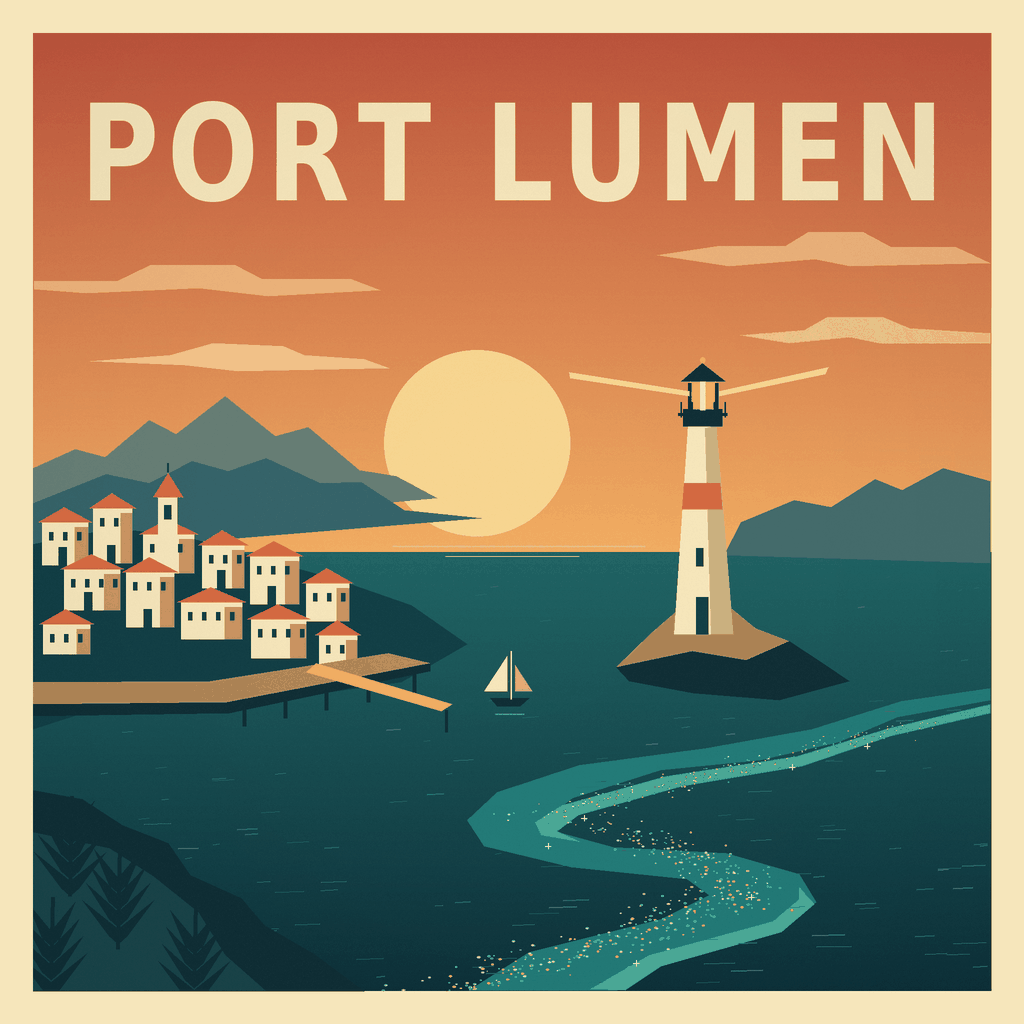
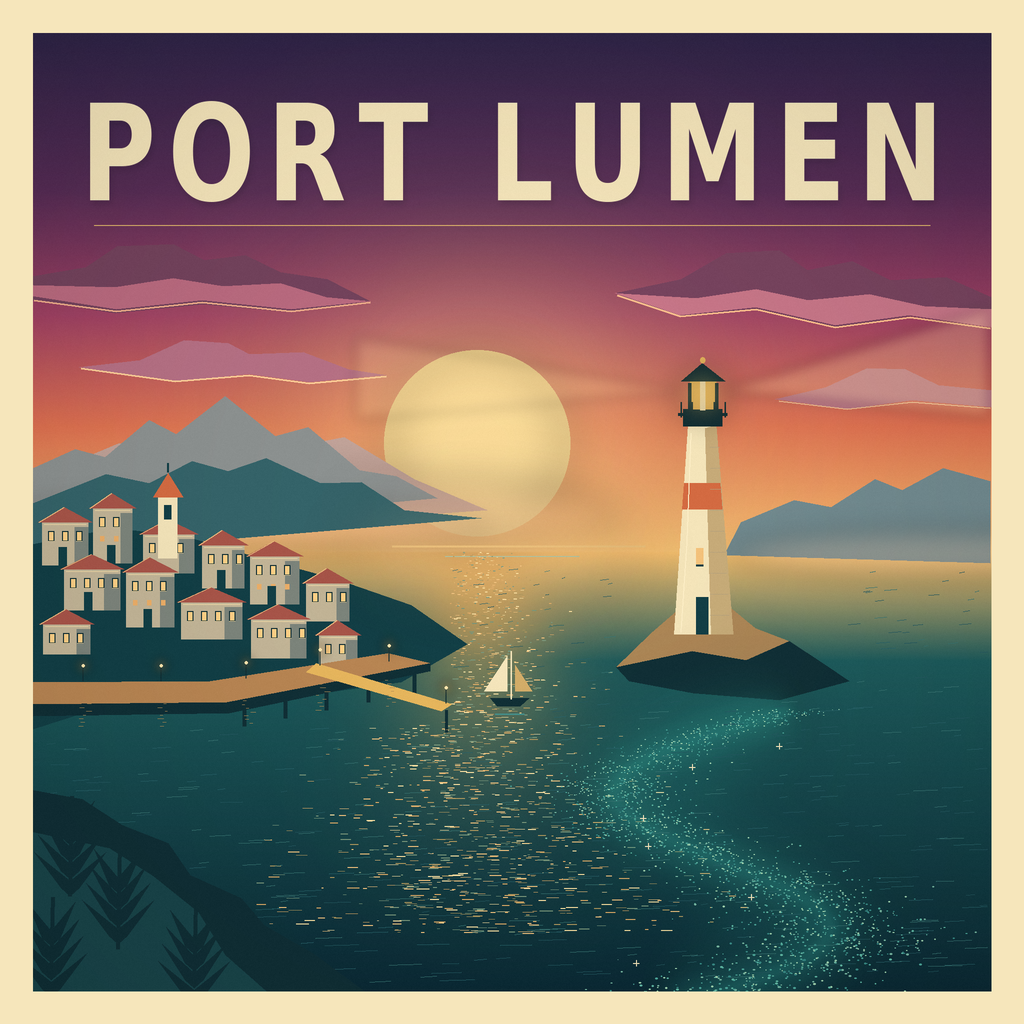
Atmospheric pass: richer sky, glitter path, haze

diff --git a/tools/render_poster.py b/tools/render_poster.py
@@ -4,7 +4,7 @@ from pathlib import Path
 import math
 import random
 
-from PIL import Image, ImageDraw, ImageFont
+from PIL import Image, ImageDraw, ImageFont, ImageFilter
 
 
 S = 2
@@ -42,19 +42,53 @@ def blend(a, b, t):
     return tuple(round(x+(y-x)*t) for x, y in zip(a, b))
 
 
-# A warm paper border encloses a continuous image, like a screen-printed plate.
-for y in range(33*S, 991*S):
-    yy = y/S
-    if yy < 552:
-        color = blend((192, 85, 61), (241, 173, 98), (yy-33)/519)
-    else:
-        color = blend((32, 100, 100), (13, 49, 58), (yy-552)/439)
-    d.line((33*S, y, 991*S, y), fill=color)
+def composite(layer, blur=0):
+    global im, d
+    if blur:
+        layer = layer.filter(ImageFilter.GaussianBlur(blur*S))
+    im = Image.alpha_composite(im.convert('RGBA'), layer).convert('RGB')
+    d = ImageDraw.Draw(im)
+
+
+def haze(box, color, opacity, blur):
+    layer = Image.new('RGBA', im.size)
+    ImageDraw.Draw(layer).ellipse(tuple(round(v*S) for v in box),
+                                  fill=(*color, opacity))
+    composite(layer, blur)
+
+
+# Five dusk pigments merge into a broad radial sun halo. Sea color shifts
+# from brass on the horizon to midnight teal in the near water.
+stops = [(0,(39,35,69)),(190,(86,44,85)),(315,(159,64,99)),
+         (425,(222,111,79)),(552,(247,192,111)),(660,(29,91,92)),
+         (1024,(9,37,49))]
+field = Image.new('RGB',(512,512))
+px = field.load()
+for yy in range(512):
+    y = yy*2
+    for j in range(len(stops)-1):
+        a, ca = stops[j]
+        b, cb = stops[j+1]
+        if a <= y <= b:
+            base = blend(ca, cb, (y-a)/(b-a))
+            break
+    for xx in range(512):
+        x = xx*2
+        if y < 552:
+            strength = .44*math.exp(-(((x-477)/235)**2+((y-446)/181)**2))
+            color = blend(base,(255,210,143),strength)
+        else:
+            strength = .70*math.exp(-(((x-479)/(52+(y-552)*.20))**2+((y-552)/176)**2))
+            color = blend(base,(232,173,92),strength)
+        px[xx,yy] = color
+im = field.resize(im.size,Image.Resampling.BICUBIC)
+d = ImageDraw.Draw(im)
+haze((266,266,684,640),(255,198,123),44,65)
 
 # Title is individually spaced and fitted to the sky, with no other lettering.
 font = ImageFont.truetype('/usr/share/fonts/truetype/dejavu/DejaVuSans-Bold.ttf', 116*S)
 title = 'PORT LUMEN'
-spacing = 9*S
+spacing = 14*S
 width = sum(font.getlength(c) for c in title) + spacing*(len(title)-1)
 lettering = Image.new('RGBA', (math.ceil(width)+8, 155*S))
 td = ImageDraw.Draw(lettering)
@@ -64,40 +98,78 @@ for char in title:
     x += font.getlength(char)+spacing
 lettering = lettering.crop(lettering.getbbox())
 lettering = lettering.resize((844*S, 101*S), Image.Resampling.LANCZOS)
+shadow = Image.new('RGBA',im.size)
+shadow_text = Image.new('RGBA',lettering.size,(10,23,39,0))
+shadow_text.putalpha(lettering.getchannel('A').point(lambda a: a*95//255))
+shadow.paste(shadow_text,(92*S,105*S),shadow_text)
+composite(shadow,3)
 im.paste(lettering, (90*S, 101*S), lettering)
+line([(94,225),(930,225)], '#d9ae6a', 1)
 
-# Wind-swept cloud bands: long, quiet shapes keep the title legible.
-polygon([(34,281),(117,281),(150,265),(235,265),(262,279),(351,279),
-         (380,290),(268,296),(199,288),(86,293),(34,289)], '#eeb37d')
-polygon([(657,255),(717,246),(785,246),(808,232),(863,232),(891,247),
-         (956,247),(990,263),(850,266),(815,259),(729,266)], '#edb17b')
-polygon([(90,361),(170,355),(213,343),(283,346),(304,355),(364,359),
-         (389,368),(238,371),(185,365)], '#f4c38a')
-polygon([(740,335),(804,330),(827,317),(883,317),(909,328),(990,333),
-         (990,343),(879,343),(850,337),(789,343)], '#efbd86')
+# Sculpted cloud banks have plum shadows, rose mids, and incandescent rims.
+polygon([(33,276),(86,267),(117,246),(173,244),(204,260),(245,255),
+         (280,272),(327,279),(370,301),(291,312),(203,304),(115,313),(33,300)], '#74435d')
+polygon([(33,285),(115,287),(173,278),(223,286),(280,283),(326,297),
+         (370,301),(291,309),(202,300),(116,309),(33,296)], '#bb6b80')
+line([(34,300),(116,311),(202,302),(291,311),(370,302)], '#f0ae8b',2)
+polygon([(615,293),(681,279),(726,253),(779,250),(807,270),(852,261),
+         (890,280),(946,277),(991,297),(991,327),(910,316),(835,327),
+         (756,309),(680,317)], '#78445f')
+polygon([(615,293),(696,298),(756,289),(808,300),(869,294),(924,306),
+         (991,309),(991,327),(909,315),(835,325),(756,307),(680,315)], '#c97789')
+line([(617,295),(680,316),(756,309),(835,327),(910,317),(990,328)], '#ffc18e',2.2)
+polygon([(79,367),(140,360),(184,340),(228,343),(249,354),(303,352),
+         (348,369),(386,375),(309,382),(249,374),(175,381)], '#b77185')
+line([(81,368),(175,381),(249,375),(309,383),(386,376)], '#ffd099',2)
+polygon([(775,399),(826,387),(867,368),(905,369),(938,385),(991,390),
+         (991,407),(912,400),(847,409)], '#bc7887')
+line([(779,401),(847,409),(912,402),(990,408)], '#f4bd92',1.6)
 
 # Low sun and distant headlands form the third stop in the composition.
 ellipse((384,350,570,536), '#f7d590')
+haze((386,352,568,534),(255,229,164),85,23)
+polygon([(33,479),(119,443),(176,453),(234,421),(291,447),
+         (344,437),(414,479),(487,510),(33,542)], '#c3a49a')
+haze((-40,474,615,555),(250,190,142),67,17)
 polygon([(33,468),(75,449),(105,457),(149,420),(176,434),(225,396),
-         (275,436),(308,427),(359,470),(396,476),(437,498),(33,535)], '#687f76')
+         (275,436),(308,427),(359,470),(396,476),(437,498),(33,535)], '#8d9291')
+haze((-80,501,490,549),(246,190,147),64,12)
 polygon([(33,503),(106,474),(149,483),(192,461),(228,471),(266,458),
          (320,483),(361,482),(404,510),(481,518),(33,555)], '#35646a')
 polygon([(741,522),(794,500),(831,507),(875,479),(902,490),(943,468),
-         (990,481),(990,563),(724,555)], '#456d6d')
+         (990,481),(990,563),(724,555)], '#728b90')
+haze((729,529,1136,579),(235,188,151),65,12)
 line([(392,546),(645,546)], '#e8bd78', 2)
 line([(445,556),(579,556)], '#a7c0a0', 1)
+
+# Hundreds of broken highlights widen with perspective into a glitter path.
+for _ in range(1600):
+    y = RNG.uniform(551,933)
+    t = (y-551)/382
+    x = RNG.gauss(477+12*math.sin(t*8),14+87*t)
+    if x < 450 and y < 725:
+        continue
+    length = RNG.uniform(1,8)*(0.25+1.5*t)
+    col = RNG.choice(['#f3c47f','#e0ad68','#ad975e','#ffe4a4','#7a987c'])
+    line([(x,y),(x+length,y)],col,RNG.uniform(.35,1.2))
 
 # The village hugs the left shore. Each roof is a separate printed shape.
 polygon([(33,544),(114,528),(184,536),(267,560),(336,579),(411,605),
          (467,644),(401,682),(279,699),(142,694),(33,729)], TEAL)
 
 
-def house(x, y, w, h, roof=ORANGE, wall=CREAM):
+def house(x, y, w, h, roof='#a95549', wall='#c4b698'):
     rect((x,y-h,x+w,y), wall)
     polygon([(x-4,y-h),(x+w*.48,y-h-15),(x+w+4,y-h)], roof)
-    rect((x+w*.71,y-h+5,x+w,y), '#c49a66')
+    rect((x+w*.71,y-h+5,x+w,y), '#7d857c')
+    line([(x-3,y-h),(x+w*.48,y-h-15)],'#efbd80',1)
+    line([(x+2,y-h+2),(x+w-2,y-h+2)],'#e5d2a5',1)
     for wx in range(int(x+7), int(x+w-5), 14):
-        rect((wx,y-h+10,wx+4,y-h+18), TEAL)
+        rect((wx-1,y-h+9,wx+5,y-h+19), DARK)
+        rect((wx,y-h+10,wx+4,y-h+18), '#ffd186')
+        line([(wx-1,y-h+19),(wx+5,y-h+19)],'#edd29a',.7)
+        if h > 43:
+            rect((wx,y-h+28,wx+4,y-h+33),'#edaf68')
     if h > 39:
         rect((x+w*.36,y-18,x+w*.36+8,y), TEAL)
 
@@ -141,24 +213,32 @@ for xx in [681,692,714,725]:
     line([(xx,402),(xx,417)], DARK, 1.6)
 rect((696,548,703,566), TEAL)
 rect((696,597,708,634), TEAL)
-# Narrow lighthouse rays echo the diagonal coastline without overwhelming it.
-polygon([(689,391),(569,372),(570,378),(689,396)], '#f6d392')
-polygon([(719,391),(828,367),(825,374),(719,396)], '#f6d392')
+# Light passes through airborne salt: broad transparent beams with soft edges.
+beam = Image.new('RGBA',im.size)
+bd = ImageDraw.Draw(beam)
+bd.polygon([(719*S,391*S),(990*S,307*S),(990*S,418*S)], fill=(255,223,161,64))
+bd.polygon([(689*S,391*S),(355*S,336*S),(355*S,420*S)], fill=(255,220,156,43))
+composite(beam,6)
+haze((677,371,728,417),(255,206,108),110,14)
+rect((696,548,703,564),'#f5c37b')
+for y in range(447,625,21):
+    line([(710,y),(719+(y-447)*.06,y)],'#b5a27e',.65)
+line([(681,632),(687,542),(691,433)],'#fff0c8',1)
 
-# Currents draw the eye from the foreground toward the lighthouse and sun.
-polygon([(990,700),(897,717),(838,742),(760,760),(660,770),(572,798),
-         (536,826),(613,847),(726,853),(799,874),(816,902),(771,933),
-         (665,958),(617,990),(469,990),(529,952),(661,919),(709,895),
-         (687,879),(571,867),(484,846),(467,820),(497,792),(579,765),
-         (706,748),(812,729),(901,701),(990,688)], '#237c79')
-polygon([(990,713),(890,736),(802,766),(682,786),(578,815),(557,831),
-         (581,842),(541,835),(535,822),(562,805),(666,776),(797,756),
-         (889,728),(990,704)], '#3ba495')
-polygon([(590,989),(649,955),(773,921),(799,899),(799,887),(814,904),
-         (781,932),(661,966),(625,990)], '#4ba997')
+# Wide translucent phosphorescence replaces the hard ribbon of the first pass.
+def current(t):
+    return (795-144*math.sin(t*6.2)-145*t, 709+300*t)
+
+for width, alpha, blur in [(110,28,28),(54,35,13),(18,31,6)]:
+    layer = Image.new('RGBA',im.size)
+    ld = ImageDraw.Draw(layer)
+    points = [(round(x*S),round(y*S)) for x,y in
+              (current(i/220) for i in range(221))]
+    ld.line(points,fill=(63,204,182,alpha),width=width*S,joint='curve')
+    composite(layer,blur)
 
 # Flat wave marks vary in length and follow perspective.
-for i in range(180):
+for i in range(600):
     y = RNG.uniform(567,983)
     x = RNG.uniform(45,980)
     if x < 450 and y < 728:
@@ -167,22 +247,34 @@ for i in range(180):
         continue
     length = RNG.uniform(6,29)*(0.35+(y-560)/460)
     line([(x,y),(min(x+length,987),y-0.9)],
-         RNG.choice(['#307477','#2a696d','#427e7b']), RNG.choice([0.7,1,1.4]))
+         RNG.choice(['#286269','#245860','#397573']), RNG.choice([0.5,.7,1]))
 
 # Bioluminescent flecks cluster along the curved tidal channel.
-for i in range(700):
+for i in range(2200):
     t = RNG.random()
-    y = 722+270*t
-    center = (925-1120*t) if t < .34 else (558+170*math.sin((t-.34)*6.0))
-    x = RNG.gauss(center, 15+29*t)
+    center,y = current(t)
+    x = RNG.gauss(center, 23+40*t)
     if not 42 < x < 983:
         continue
-    r = RNG.uniform(.4,1.3)*(0.6+t)
-    color = RNG.choice([GOLD, '#8cd0b0', '#62bfa8', '#b9d5ad'])
+    r = RNG.uniform(.25,.85)*(0.6+t)
+    color = RNG.choice(['#a3d7b2','#62bba7','#398e89','#4eaa9d','#78b9a4'])
     ellipse((x-r,y-r*.55,x+r,y+r*.55),color)
-for x,y in [(584,818),(751,897),(867,746),(636,963),(792,767),(548,846)]:
+for x,y in [(643,818),(751,897),(779,746),(636,963),(692,767),(648,846)]:
     line([(x-3,y),(x+3,y)],CREAM,0.9)
     line([(x,y-3),(x,y+3)],CREAM,0.9)
+
+# Quayside lamps and reflected amber pinpoints make the town feel inhabited.
+for x,y in [(83,681),(161,681),(246,678),(320,665),(389,661),(446,703)]:
+    line([(x,y),(x,y-15)],DARK,1)
+    haze((x-6,y-22,x+6,y-9),(255,179,78),110,5)
+    ellipse((x-1.6,y-17,x+1.6,y-14),'#ffe7af')
+    for j in range(8):
+        yy = y+19+j*3.7
+        xx = x+RNG.uniform(-5,5)
+        line([(xx,yy),(xx+RNG.uniform(2,6),yy)],'#b28c54',.7)
+
+# Salt haze joins the sun, water and distant architecture with a soft warm veil.
+haze((340,488,635,610),(255,206,148),30,30)
 
 # Small sailing boat provides a human scale and a quiet cream counterpoint.
 polygon([(490,698),(529,698),(520,706),(497,706)], DARK)
@@ -211,7 +303,7 @@ for y in range(33*S,991*S):
         i = (y*SIZE*S+x)*3
         grain = RNG.choice([-3,-2,-1,0,0,0,1,2,3])
         radius = ((x/S-512)/680)**2+((y/S-512)/680)**2
-        shade = 1-0.065*min(1,radius)
+        shade = 1-0.12*min(1,radius)
         for c in range(3):
             pixels[i+c] = max(0,min(255,round(pixels[i+c]*shade)+grain))
 im = Image.frombytes('RGB',im.size,bytes(pixels))
@@ -222,9 +314,8 @@ rect((0,991.5,1024,1024), CREAM)
 rect((0,0,32.5,1024), CREAM)
 rect((991.5,0,1024,1024), CREAM)
 im = im.resize((SIZE,SIZE),Image.Resampling.LANCZOS)
-# An adaptive print palette keeps the detailed PNG comfortably under 1 MiB.
-im = im.quantize(colors=192, method=Image.Quantize.MEDIANCUT,
-                 dither=Image.Dither.NONE)
+# Preserve continuous-color dusk and light scattering in the shipped PNG.
 output = Path(__file__).resolve().parents[1] / 'entry.png'
-im.save(output,optimize=True)
+im.save(output,optimize=True,compress_level=9)
+assert output.stat().st_size <= 1024*1024, 'Poster exceeds the 1 MiB limit'
 print(f'{output}: {output.stat().st_size} bytes')

diff --git a/main.py b/main.py
@@ -1,17 +1,24 @@
-"""Publish the pre-rendered Port Lumen poster using only the standard library."""
+"""Publish the atmospheric Port Lumen artwork; rendering is a local build step."""
 
 import os
 from pathlib import Path
 import shutil
 
+OUTPUT_FILENAME = "entry.png"
 
-def main() -> None:
-    output_dir = Path(os.environ.get("MAKEFUN_OUTPUT_DIR", "/output"))
+
+def publish(output_dir: Path) -> Path:
+    """Copy the shipped PNG into the exact requested directory, creating parents."""
     output_dir.mkdir(parents=True, exist_ok=True)
-    source = Path(__file__).resolve().with_name("entry.png")
-    target = output_dir / "entry.png"
+    source = Path(__file__).resolve().with_name(OUTPUT_FILENAME)
+    target = output_dir / OUTPUT_FILENAME
     if source.resolve() != target.resolve():
         shutil.copyfile(source, target)
+    return target
+
+
+def main() -> None:
+    publish(Path(os.environ.get("MAKEFUN_OUTPUT_DIR", "/output")))
 
 
 if __name__ == "__main__":

diff --git a/README.md b/README.md
@@ -5,8 +5,11 @@ A program that draws a travel poster for an invented place: /output/entry.png (1
 ## Port Lumen
 
 A fictional harbor at dusk, where luminous tides curl past a lighthouse and a
-terraced seaside village. A limited palette, bold lettering, layered silhouettes,
-subtle grain, and a paper border recall mid-century travel screen prints.
+terraced seaside village. A plum-to-gold sunset, radial sun haze, rim-lit clouds,
+mountain mist, and transparent lighthouse beams bring atmosphere to the
+mid-century travel-poster shapes. Warm windows overlook a glittering sun
+reflection and broad, soft bioluminescent currents. Spaced cream lettering,
+a fine gold rule, subtle film grain, and a vignette complete the print.
 The only text in the artwork is **PORT LUMEN**.
 
 Run `python3.13 main.py` to copy the committed `entry.png` to
@@ -15,7 +18,7 @@ is created automatically. The entry point uses only the Python standard library.
 
 To rebuild the artwork locally, run `python3 tools/render_poster.py` with Pillow
 installed. The development renderer uses a fixed random seed, renders at
-2048×2048, downsamples with LANCZOS to 1024×1024, and saves an optimized palette
+2048×2048, downsamples with LANCZOS to 1024×1024, and saves an optimized RGB
 PNG below 1 MiB. Pillow is not needed to run `main.py`.
 
 [![rank](https://make.fun/badge/the-poster-for-a-place-that-i-2-20261121-0539/mmineya/travel-poster/rank.svg)](https://make.fun/bounty/the-poster-for-a-place-that-i-2-20261121-0539/leaderboard?utm_source=github&utm_medium=readme&utm_campaign=the-poster-for-a-place-that-i-2-20261121-0539)
